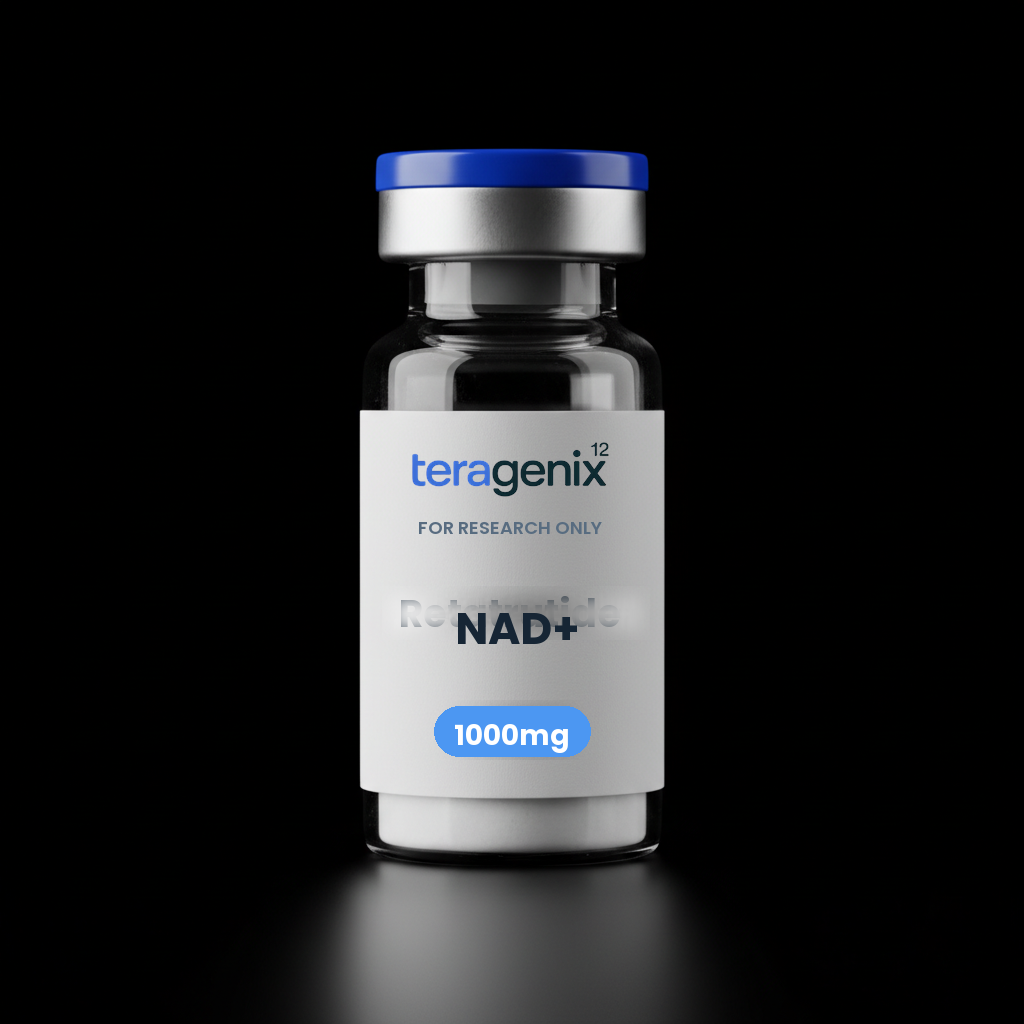
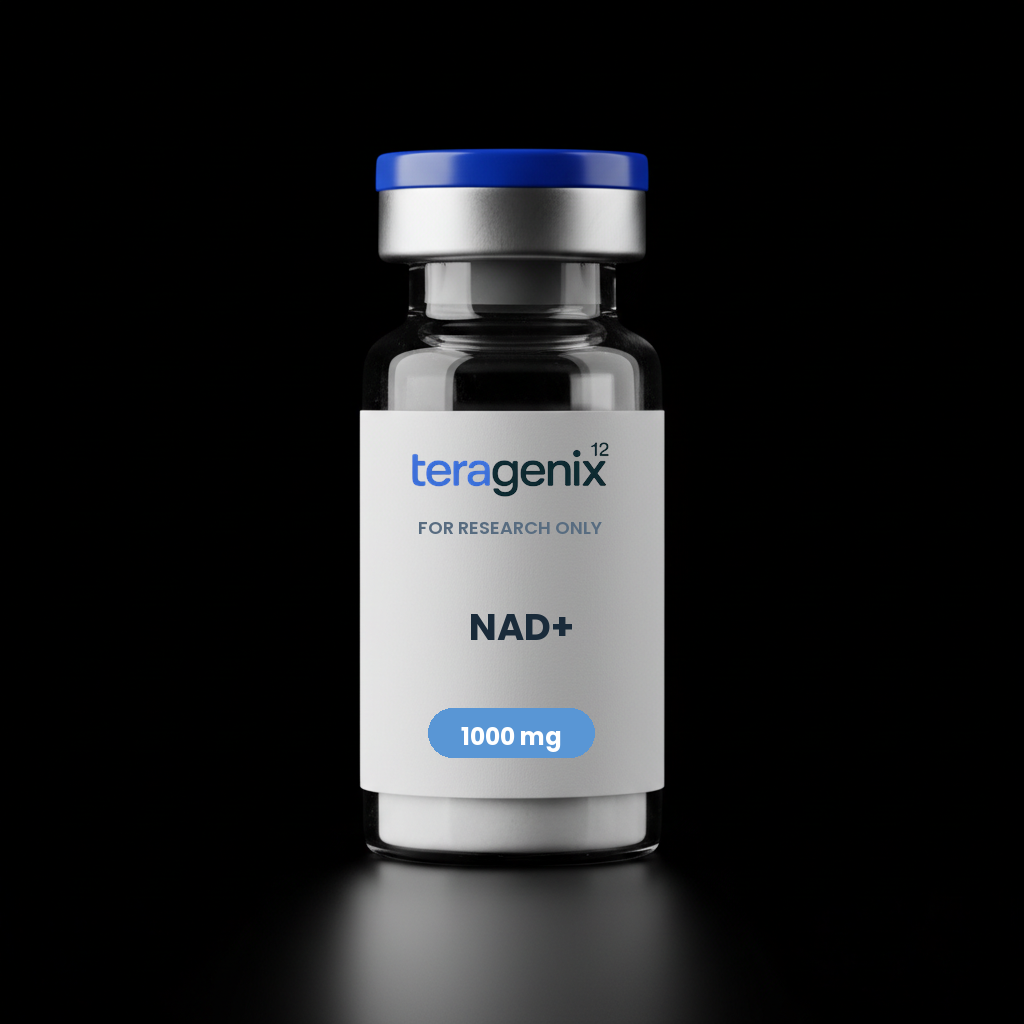
fix: restore full vial lineup with matched blank-source renders

Changed region(s): [[0.4062, 0.6875, 0.5938, 0.75], [0.4375, 0.5625, 0.5625, 0.6562]]

diff --git a/src/data/products.ts b/src/data/products.ts
@@ -461,15 +461,7 @@ export const products: Product[] = [
   },
 ];
 
-const hiddenPublicProductSlugs = new Set([
-  "bpc-157",
-  "semax",
-  "selank",
-  "cjc-ipamorelin",
-  "nad-plus",
-]);
-
-export const publicProducts = products.filter((p) => !hiddenPublicProductSlugs.has(p.slug));
+export const publicProducts = products;
 
 /** Products with badges — used on the homepage featured section */
 export const featuredProducts = publicProducts.filter((p) => p.badge);

diff --git a/scripts/generate_master_vials.py b/scripts/generate_master_vials.py
@@ -2,11 +2,11 @@
 from __future__ import annotations
 
 from pathlib import Path
-from PIL import Image, ImageDraw, ImageFont, ImageFilter
+from PIL import Image, ImageDraw, ImageFont
 
 ROOT = Path('/Users/Rex/.openclaw/workspace/teragenix')
-MASTER = ROOT / 'public/images/vials/reference/original-master-vial.png'
-TEMPLATE = ROOT / 'public/images/vials/retatrutide.png'
+BLANK = ROOT / 'public/images/vials/blank-vial-mockup-flatlight.png'
+GOOD_REF = ROOT / 'public/images/vials/retatrutide.png'
 OUT_DIR = ROOT / 'public/images/vials/generated-batch'
 OUT_DIR.mkdir(parents=True, exist_ok=True)
 
@@ -17,22 +17,22 @@ PRODUCTS = [
     ('semax', 'Semax', '10mg'),
     ('selank', 'Selank', '10mg'),
     ('cjc-ipamorelin', 'CJC / Ipamorelin', '10mg'),
-    ('nad-plus', 'NAD+', '1000mg'),
+    ('nad-plus', 'NAD+', '1000 mg'),
 ]
 
-# Leave the existing logo + FOR RESEARCH ONLY alone. Only replace product-name area and pill area.
-NAME_RESET_BOX = (382, 586, 650, 640)
-NAME_BOX = (368, 584, 667, 644)
-PILL_RESET_BOX = (438, 700, 586, 760)
-PILL_BOX = (446, 706, 578, 756)
+# Exact approved top label block from a known-good live bottle.
+TOP_BLOCK_BOX = (360, 430, 670, 590)
+# Measured from the known-good live family.
+NAME_BOX = (397, 596, 645, 635)
+PILL_BOX = (446, 708, 576, 757)
 
-NAVY = '#162534'
-BLUE = '#4C97F2'
+NAVY = '#1A2B3A'
+BLUE = '#5996D5'
 WHITE = '#FFFFFF'
 
 
-def load_font(path: Path, size: int) -> ImageFont.FreeTypeFont:
-    return ImageFont.truetype(str(path), size)
+def load_font(size: int) -> ImageFont.FreeTypeFont:
+    return ImageFont.truetype(str(FONT_BOLD), size)
 
 
 def fit_single_line(draw: ImageDraw.ImageDraw, text: str, box: tuple[int, int, int, int], max_size: int, min_size: int) -> ImageFont.FreeTypeFont:
@@ -40,95 +40,64 @@ def fit_single_line(draw: ImageDraw.ImageDraw, text: str, box: tuple[int, int, i
     max_w = x2 - x1
     max_h = y2 - y1
     for size in range(max_size, min_size - 1, -1):
-        font = load_font(FONT_BOLD, size)
+        font = load_font(size)
         bb = draw.textbbox((0, 0), text, font=font)
         if (bb[2] - bb[0]) <= max_w and (bb[3] - bb[1]) <= max_h:
             return font
-    return load_font(FONT_BOLD, min_size)
+    return load_font(min_size)
 
 
-def fit_two_line(draw: ImageDraw.ImageDraw, lines: list[str], box: tuple[int, int, int, int], max_size: int, min_size: int, spacing: int = 0) -> ImageFont.FreeTypeFont:
-    x1, y1, x2, y2 = box
-    max_w = x2 - x1
-    max_h = y2 - y1
-    text = '\n'.join(lines)
-    for size in range(max_size, min_size - 1, -1):
-        font = load_font(FONT_BOLD, size)
-        bb = draw.multiline_textbbox((0, 0), text, font=font, spacing=spacing, align='center')
-        if (bb[2] - bb[0]) <= max_w and (bb[3] - bb[1]) <= max_h:
-            return font
-    return load_font(FONT_BOLD, min_size)
-
-
-def draw_centered_text(draw: ImageDraw.ImageDraw, text: str, box: tuple[int, int, int, int], font: ImageFont.FreeTypeFont, fill: str) -> None:
+def draw_centered_text(draw: ImageDraw.ImageDraw, text: str, box: tuple[int, int, int, int], font: ImageFont.FreeTypeFont, fill: str, y_offset: float = 0) -> None:
     x1, y1, x2, y2 = box
     bb = draw.textbbox((0, 0), text, font=font)
-    x = x1 + ((x2 - x1) - (bb[2] - bb[0])) / 2
-    y = y1 + ((y2 - y1) - (bb[3] - bb[1])) / 2 - 1
+    w = bb[2] - bb[0]
+    h = bb[3] - bb[1]
+    x = x1 + ((x2 - x1) - w) / 2
+    y = y1 + ((y2 - y1) - h) / 2 + y_offset
     draw.text((x, y), text, font=font, fill=fill)
 
 
-def draw_centered_multiline(draw: ImageDraw.ImageDraw, text: str, box: tuple[int, int, int, int], font: ImageFont.FreeTypeFont, fill: str, spacing: int = 0) -> None:
-    x1, y1, x2, y2 = box
-    bb = draw.multiline_textbbox((0, 0), text, font=font, spacing=spacing, align='center')
-    x = x1 + ((x2 - x1) - (bb[2] - bb[0])) / 2
-    y = y1 + ((y2 - y1) - (bb[3] - bb[1])) / 2 - 2
-    draw.multiline_text((x, y), text, font=font, fill=fill, spacing=spacing, align='center')
-
-
-def restore_region(base: Image.Image, master: Image.Image, box: tuple[int, int, int, int]) -> None:
-    patch = master.crop(box).convert('RGBA')
-    w = box[2] - box[0]
-    h = box[3] - box[1]
-    mask = Image.new('L', (w, h), 0)
-    md = ImageDraw.Draw(mask)
-    md.rectangle((10, 10, w - 10, h - 10), fill=255)
-    mask = mask.filter(ImageFilter.GaussianBlur(8))
-    region = base.crop(box).convert('RGBA')
-    blended = Image.composite(patch, region, mask)
-    base.paste(blended, box)
-
-
-def render_product_name(draw: ImageDraw.ImageDraw, name: str) -> None:
+def render_name(draw: ImageDraw.ImageDraw, name: str) -> None:
     if name == 'CJC / Ipamorelin':
-        display = 'CJC/Ipamorelin'
-        box = (352, 588, 684, 640)
-        font = fit_single_line(draw, display, box, max_size=28, min_size=18)
-        draw_centered_text(draw, display, box, font, NAVY)
+        box = (360, 592, 682, 639)
+        font = fit_single_line(draw, name, box, 30, 17)
+        draw_centered_text(draw, name, box, font, NAVY, y_offset=-1)
+    elif name == 'NAD+':
+        font = fit_single_line(draw, name, NAME_BOX, 37, 24)
+        draw_centered_text(draw, name, NAME_BOX, font, NAVY, y_offset=-1)
     else:
-        font = fit_single_line(draw, name, NAME_BOX, max_size=44 if len(name) <= 12 else 36, min_size=24)
-        draw_centered_text(draw, name, NAME_BOX, font, NAVY)
+        font = fit_single_line(draw, name, NAME_BOX, 34, 22)
+        draw_centered_text(draw, name, NAME_BOX, font, NAVY, y_offset=-1)
 
 
-def render_dose_pill(draw: ImageDraw.ImageDraw, dose: str) -> None:
+def render_pill(draw: ImageDraw.ImageDraw, dose: str) -> None:
     x1, y1, x2, y2 = PILL_BOX
     extra = 0
     if len(dose) >= 6:
-        extra = 24
+        extra = 36
     pill = (x1 - extra // 2, y1, x2 + extra // 2, y2)
     radius = (pill[3] - pill[1]) // 2
     draw.rounded_rectangle(pill, radius=radius, fill=BLUE)
-    dose_font = fit_single_line(draw, dose, (pill[0] + 10, pill[1] + 4, pill[2] - 10, pill[3] - 4), max_size=28, min_size=18)
-    draw_centered_text(draw, dose, pill, dose_font, WHITE)
+    font = fit_single_line(draw, dose, (pill[0] + 10, pill[1] + 8, pill[2] - 10, pill[3] - 8), 24, 16)
+    draw_centered_text(draw, dose, pill, font, WHITE, y_offset=-1)
 
 
 def render(slug: str, name: str, dose: str) -> Path:
-    base = Image.open(TEMPLATE).convert('RGBA')
-    master = Image.open(MASTER).convert('RGBA')
-    restore_region(base, master, NAME_RESET_BOX)
-    restore_region(base, master, PILL_RESET_BOX)
-    draw = ImageDraw.Draw(base)
-    render_product_name(draw, name)
-    render_dose_pill(draw, dose)
+    blank_img = Image.open(BLANK).convert('RGBA')
+    ref_img = Image.open(GOOD_REF).convert('RGBA')
+    # Copy the exact approved top block from the good live family.
+    blank_img.paste(ref_img.crop(TOP_BLOCK_BOX), TOP_BLOCK_BOX)
+    draw = ImageDraw.Draw(blank_img)
+    render_name(draw, name)
+    render_pill(draw, dose)
     out = OUT_DIR / f'{slug}.png'
-    base.save(out, format='PNG', optimize=True)
+    blank_img.save(out, format='PNG', optimize=True)
     return out
 
 
 def main() -> None:
     for slug, name, dose in PRODUCTS:
-        out = render(slug, name, dose)
-        print(out)
+        print(render(slug, name, dose))
 
 
 if __name__ == '__main__':
